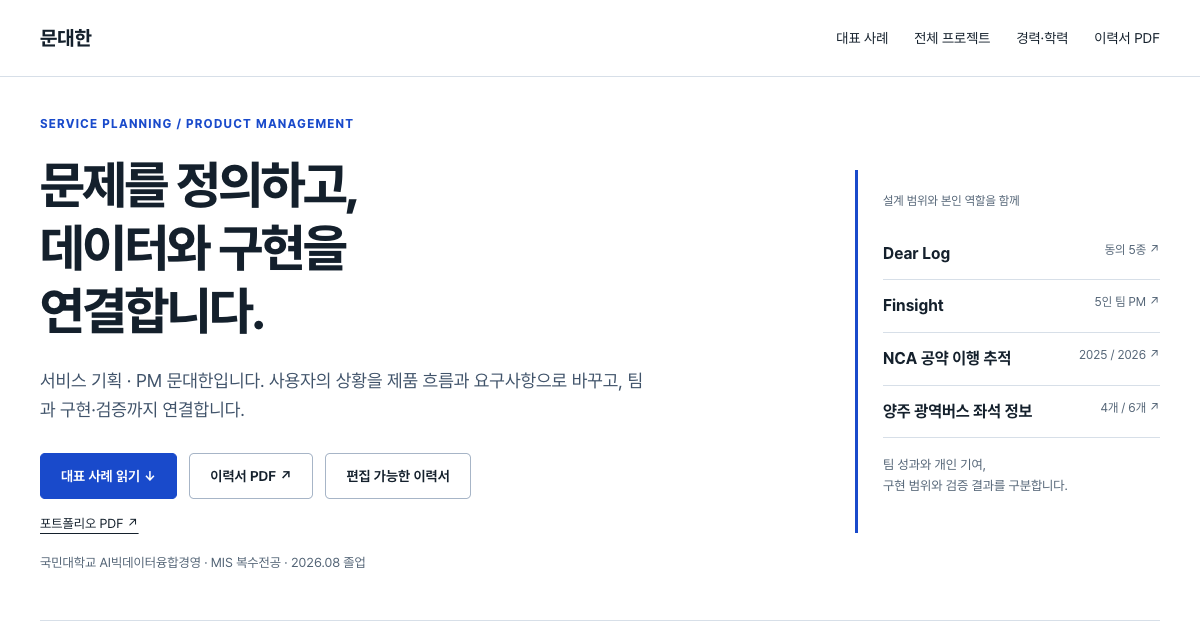
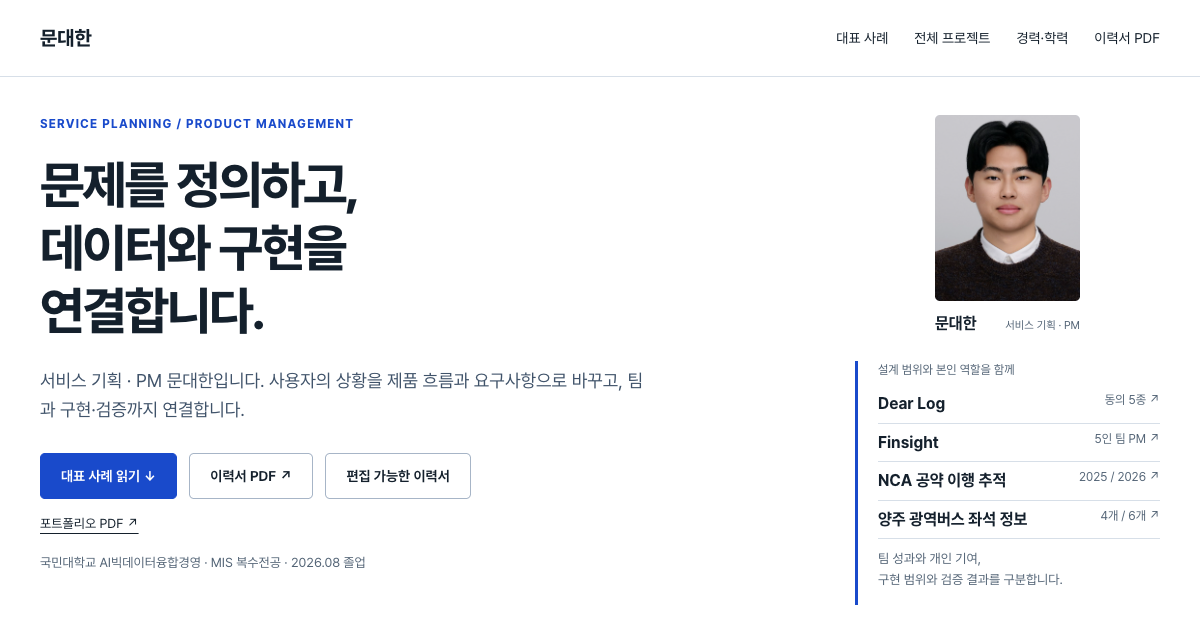
Add original profile photo and responsive placement

diff --git a/index.html b/index.html
@@ -1,1 +1,1 @@
-<!doctype html><html lang="ko"><head><meta charset="utf-8"><meta name="viewport" content="width=device-width,initial-scale=1"><title>서비스 기획 PM 포트폴리오 · 문대한</title><meta name="description" content="서비스 기획 · PM 문대한입니다. 사용자의 상황을 제품 흐름과 요구사항으로 바꾸고, 팀과 구현·검증까지 연결합니다."><meta name="robots" content="index,follow"><meta name="theme-color" content="#ffffff"><link rel="stylesheet" href="style.css"><link rel="preload" href="assets/PretendardVariable.woff2" as="font" type="font/woff2" crossorigin><link rel="icon" href="assets/favicon.svg"><link rel="canonical" href="https://moondh99.github.io/"><meta property="og:type" content="website"><meta property="og:locale" content="ko_KR"><meta property="og:title" content="문대한 | 서비스 기획 · PM"><meta property="og:description" content="문제 정의에서 팀 실행과 검증까지 연결하는 기획 경험"><meta property="og:url" content="https://moondh99.github.io/"><meta property="og:image" content="https://moondh99.github.io/assets/og-pm.png"></head><body><a class="skip" href="#main">본문으로 건너뛰기</a><header class="bar"><div class="wrap nav"><a class="brand" href="#main">문대한</a><nav aria-label="주요 탐색" class="navlinks"><a class="" href="#selected">대표 사례</a><a class="" href="#all">전체 프로젝트</a><a class="historynav" href="#background">경력·학력</a><a class="" href="resume.pdf">이력서 PDF</a></nav></div></header><main id="main" tabindex="-1" class="wrap"><section class="hero" aria-labelledby="hero-title"><div class="hero-main"><p class="eyebrow">SERVICE PLANNING / PRODUCT MANAGEMENT</p><h1 id="hero-title">문제를 정의하고,<br> 데이터와 구현을<br class="widebreak"> 연결합니다.</h1><p class="intro">서비스 기획 · PM 문대한입니다. 사용자의 상황을 제품 흐름과 요구사항으로 바꾸고, 팀과 구현·검증까지 연결합니다.</p><div class="actions"><a class="button primary" href="#selected">대표 사례 읽기 ↓</a><a class="button" href="resume.pdf">이력서 PDF ↗</a><a class="button" href="resume.docx">편집 가능한 이력서</a></div><p class="portfolio-download"><a href="portfolio.pdf">포트폴리오 PDF ↗</a></p><p class="small" style="margin-top:18px">국민대학교 AI빅데이터융합경영 · MIS 복수전공 · 2026.08 졸업</p></div><aside class="hero-proof" aria-label="대표 사례의 기획 근거"><p class="proof-label">설계 범위와 본인 역할을 함께</p><a href="#case-dearlog"><b>Dear Log</b><span>동의 5종 ↗</span></a><a href="#case-finsight"><b>Finsight</b><span>5인 팀 PM ↗</span></a><a href="#case-nca"><b>NCA 공약 이행 추적</b><span>2025 / 2026 ↗</span></a><a href="#case-yangju"><b>양주 광역버스 좌석 정보</b><span>4개 / 6개 ↗</span></a><p class="small">팀 성과와 개인 기여,<br>구현 범위와 검증 결과를 구분합니다.</p></aside></section><section id="selected" class="section" aria-labelledby="selected-title"><div class="sectionhead"><div><p class="eyebrow">SELECTED WORK</p><h2 id="selected-title">대표 사례와 기획의 근거</h2></div><p>대표 사례를 먼저 읽고, 각 결정에 연결된 요구사항·설계·검증 범위를 확인할 수 있습니다.</p></div><div class="cases"><article class="case" id="case-dearlog" aria-labelledby="title-dearlog"><div class="topline"><b>Dear Log</b><span>2026</span></div><p class="tag">사용자 여정과 동의 설계</p><h3 id="title-dearlog">가족의 기억을 인터뷰에서 책까지 연결</h3><p class="role">서비스 기획 · 팀 프로젝트</p><dl><dt>문제</dt><dd>기억을 남기고 싶은 보호자와 답변하는 시니어에게 같은 가입·기록 부담을 주는 흐름을 줄이고자 했습니다.</dd><dt>결정</dt><dd>보호자는 준비·검수, 시니어는 답변에 집중하도록 역할을 나누고, 인터뷰부터 출판까지 흐름을 연결했습니다.</dd><dt>검증</dt><dd>PRD와 공개 설계 시안에서 역할 분리·동의·검수·PDF 흐름을 확인했습니다. 공개 소개 화면과 health는 2026.10.08 정상 응답을 확인했습니다. 캡스톤 대상은 기존 이력서 기재 기준입니다.</dd></dl><div class="number"><b>5종</b><span>목적별 동의 설계 · 공개 PRD 기준</span></div><p class="limit">SMS 업체 연결·App Store 배포·실사용 효과는 미확인입니다. 유산 금고는 데모 범위입니다.</p><div class="links"><a class="" href="briefs/dearlog.html">사례 상세 읽기 →</a><span class="pending" aria-disabled="true">자료 링크 준비 중</span></div><p class="flow-label">기획 흐름 · 설명용 재구성</p><ol class="flow" aria-label="Dear Log 설계 흐름"><li>보호자 준비</li><li>시니어 인터뷰</li><li>가족 검수</li><li>PDF 출판</li></ol></article><article class="case" id="case-finsight" aria-labelledby="title-finsight"><div class="topline"><b>Finsight</b><span>2025.04–10</span></div><p class="tag">팀 실행과 데이터 확보</p><h3 id="title-finsight">흩어진 증권사 리포트를 분석 서비스로 연결</h3><p class="role">5인 팀 팀장 · PM</p><dl><dt>문제</dt><dd>증권사마다 다른 문서와 컨센서스 형식을 서비스에서 사용할 수 있도록 모아야 했습니다.</dd><dt>결정</dt><dd>기획·일정·업무 배분·멘토 소통을 맡고, 컨센서스 수집을 개발했습니다. PDF 본문·표·이미지의 파싱 대안을 검토했습니다.</dd><dt>검증</dt><dd>로컬 수집 코드와 화면 목업을 확인했습니다. 팀 배포에 기여했으나 사용자 검증 결과는 아직 없습니다.</dd></dl><div class="number"><b>5인</b><span>팀 규모 · 본인 역할은 팀장과 PM</span></div><p class="limit">팀 결과와 본인 개발 범위를 구분합니다. 실제 투자 효과·활성 사용자 수는 주장하지 않습니다.</p><div class="links"><a class="" href="briefs/finsight.html">사례 상세 읽기 →</a><span class="pending" aria-disabled="true">자료 링크 준비 중</span></div><p class="flow-label">기획 흐름 · 설명용 재구성</p><ol class="flow" aria-label="Finsight 설계 흐름"><li>요구사항 정리</li><li>업무와 일정 배분</li><li>수집·파싱 검토</li><li>팀 결과 연결</li></ol></article><article class="case" id="case-nca" aria-labelledby="title-nca"><div class="topline"><b>NCA 공약 이행 추적</b><span>2025 / 2026 후속</span></div><p class="tag">AI 판단과 근거 관리</p><h3 id="title-nca">AI 판정의 근거를 사용자가 확인할 수 있도록</h3><p class="role">2025 수집·파싱 직접 수행 · 2026 AI 작업 검토·승인</p><dl><dt>문제</dt><dd>공약과 뉴스가 관련되어 있다는 판단만으로 공약의 이행 완료를 확정할 수 없습니다.</dd><dt>결정</dt><dd>원문 인용·출처·날짜를 대조하고, 근거가 부족하면 판정을 유보하는 기준을 후속 작업에서 구체화했습니다.</dd><dt>검증</dt><dd>2025년 직접 수집·PDF 파싱과 2026년 AI 보조 후속 검토를 구분해 정리했습니다. AI 간 합의도 사람 검수 정답으로 취급하지 않습니다.</dd></dl><div class="number"><b>2025 → 2026</b><span>직접 수행과 AI 보조 후속의 역할 구분</span></div><p class="limit">AI 간 합의를 사람 검수 정답으로 취급하지 않습니다. 평가 개선 수치는 원문 대조 후 보완합니다.</p><div class="links"><a class="" href="briefs/nca.html">사례 상세 읽기 →</a><span class="pending" aria-disabled="true">자료 링크 준비 중</span></div><p class="flow-label">기획 흐름 · 설명용 재구성</p><ol class="flow" aria-label="NCA 공약 이행 추적 설계 흐름"><li>공약·뉴스 원문</li><li>인용과 날짜 대조</li><li>불충분하면 유보</li><li>근거와 판정 분리</li></ol></article><article class="case" id="case-yangju" aria-labelledby="title-yangju"><div class="topline"><b>양주 광역버스 좌석 정보</b><span>2026 진행 중</span></div><p class="tag">정보 정책과 검증 기준</p><h3 id="title-yangju">좌석 0과 정보 없음을 구분</h3><p class="role">데이터·API 계약 구체화 · AI 협업 구현 검토</p><dl><dt>문제</dt><dd>수집 실패·빈 차량 슬롯·좌석 0을 같은 값으로 보여 주면 통근자가 상황을 잘못 판단할 수 있습니다.</dd><dt>결정</dt><dd>결측·관측 시각·최신성을 응답 계약에 명시하고, 예측 근거가 없는 확률은 표시하지 않도록 범위를 정했습니다.</dd><dt>검증</dt><dd>4개 정류장과 6개 노선·방향 매핑을 원천 응답과 로컬 HTTP 결과로 대조한 기록, 읽기 전용 API 구현을 확인했습니다.</dd></dl><div class="number"><b>4개 / 6개</b><span>정류장 / 노선·방향 매핑의 로컬 검증 범위</span></div><p class="limit">팀 통합·예측 정확도·공개 배포는 미완료입니다. 테스트 수를 사용자 성과로 해석하지 않습니다.</p><div class="links"><a class="" href="briefs/yangju.html">사례 상세 읽기 →</a><span class="pending" aria-disabled="true">자료 링크 준비 중</span></div><p class="flow-label">기획 흐름 · 설명용 재구성</p><ol class="flow" aria-label="양주 광역버스 좌석 정보 설계 흐름"><li>원천 관측</li><li>좌석·결측 구분</li><li>시각·최신성 표시</li><li>근거 없는 예측 유보</li></ol></article></div><figure class="artifact"><figcaption><p class="eyebrow">ACTUAL DESIGN ARTIFACT</p><h3>Dear Log의<br>보호자와 시니어 여정</h3><p>공개 저장소의 실제 설계 시안입니다. 현재 PRD와 다른 초기 대안도 포함합니다.</p><span class="pending" aria-disabled="true">자료 링크 준비 중</span></figcaption><div><img src="assets/dearlog-journey-preview.svg" width="2600" height="800" loading="lazy" alt="Dear Log 실제 설계 시안. 보호자와 시니어의 단계별 행동, 감정, 시스템 지원을 함께 보여 주는 사용자 여정"></div></figure></section><section id="all" class="section" aria-labelledby="all-title"><div class="sectionhead"><div><p class="eyebrow">PROJECT INDEX</p><h2 id="all-title">전체 경험과 기획 후보</h2></div><p>기존 경험부터 진행 중 기획과 준비 후보까지 검토 목록에 모았습니다. 항목 수는 완료 실적이 아닙니다.</p></div><ul class="project-list"><li class="project-row"><span class="year">2026</span><div><h3>Dear Log</h3><p>보호자와 시니어 역할 분리, 동의·인터뷰·검수·출판 흐름</p></div><div class="rowright"><span class="status">구현·설계</span><br><a class="" href="briefs/dearlog.html">기획 요약 읽기 →</a></div></li><li class="project-row"><span class="year">2025</span><div><h3>Finsight</h3><p>5인 팀 PM, 컨센서스 수집, PDF 파싱 대안 검토</p></div><div class="rowright"><span class="status">팀 프로젝트</span><br><a class="" href="briefs/finsight.html">기획 요약 읽기 →</a></div></li><li class="project-row"><span class="year">2025–2026</span><div><h3>NCA 공약 이행 추적</h3><p>2025 직접 수집·파싱과 2026 AI 보조 검토·승인 구분</p></div><div class="rowright"><span class="status">후속 진행</span><br><a class="" href="briefs/nca.html">기획 요약 읽기 →</a></div></li><li class="project-row"><span class="year">2026</span><div><h3>양주 광역버스 좌석 정보</h3><p>관측·결측·최신성 정책과 읽기 전용 API 계약</p></div><div class="rowright"><span class="status">로컬 구현</span><br><a class="" href="briefs/yangju.html">기획 요약 읽기 →</a></div></li><li class="project-row"><span class="year">2026</span><div><h3>운전 졸업식 BMW YIDP</h3><p>2인 팀 팀장. 이동 계획표·졸업식 운영·예약 및 동행의 3종 흐름 설계. 인터뷰 미실시</p></div><div class="rowright"><span class="status">기획안</span><br><a class="" href="briefs/bmw.html">기획 요약 읽기 →</a></div></li><li class="project-row"><span class="year">2026</span><div><h3>첫걸음 동네산책</h3><p>3인 팀 대표. 예시 데이터 기반 4개 핵심 화면과 이주민 주도 환영길 기획. 현장 실증 전</p></div><div class="rowright"><span class="status">신청·MVP</span><br><a class="" href="briefs/walk.html">기획 요약 읽기 →</a></div></li></ul><details id="more-projects"><summary>추가 경험·기획 후보 20항목 보기</summary><ul class="project-list"><li class="project-row"><span class="year">2026</span><div><h3>Tomorrow SOL</h3><p>퇴사·독립·자동차 구매의 3가지 선택과 7개 화면 설계. 계산 엔진과 AI 설명의 역할 분리. 구현·제출 미확인</p></div><div class="rowright"><span class="status">서비스 설계</span><br><a class="" href="briefs/tomorrow.html">기획 요약 읽기 →</a></div></li><li class="project-row"><span class="year">2025</span><div><h3>온통청년 문화·여가 접근성</h3><p>3인 팀 팀장. 분석 범위·일정 우선순위를 조정해 투자 제언으로 정리. 정제는 팀원 수행. 정책 채택 미확인</p></div><div class="rowright"><span class="status">팀 분석</span><br><a class="" href="briefs/ontong.html">기획 요약 읽기 →</a></div></li><li class="project-row"><span class="year">2024</span><div><h3>따릉이 수요 분석</h3><p>실시간 수요 분석을 위한 데이터 파이프라인과 대시보드 설계. 처리량·시간·정확도 수치는 보류</p></div><div class="rowright"><span class="status">설계·구현</span><br><a class="" href="briefs/bicycle.html">기획 요약 읽기 →</a></div></li><li class="project-row"><span class="year">2024</span><div><h3>K리그 경기 결과 예측 한이음</h3><p>예측 모델과 서비스 구성 경험. 경기 수·정확도 충돌값은 제외</p></div><div class="rowright"><span class="status">팀 프로젝트</span><br><a class="" href="briefs/kleague24.html">기획 요약 읽기 →</a></div></li><li class="project-row"><span class="year">2025.12</span><div><h3>K리그 서울시립대 AI 서비스 기획</h3><p>선수 부하·부상 위험·교체 판단 지원 기획. 2024 승률예측과 별도 경험. 효과 수치는 목표</p></div><div class="rowright"><span class="status">별도 프로젝트</span><br><a class="" href="briefs/kleague25.html">기획 요약 읽기 →</a></div></li><li class="project-row"><span class="year">2024</span><div><h3>LG Aimers 4기 MQL</h3><p>B2B 영업기회 예측과 리드 우선순위화. 평가값은 원본 확인 전 제외</p></div><div class="rowright"><span class="status">분석 프로젝트</span><br><a class="" href="briefs/mql.html">기획 요약 읽기 →</a></div></li><li class="project-row"><span class="year">2024</span><div><h3>투자 교육 훈련 플랫폼</h3><p>초보 투자자의 이해도·리스크 성향을 고려한 교육과 모의투자 흐름</p></div><div class="rowright"><span class="status">서비스 기획</span><br><a class="" href="briefs/investment.html">기획 요약 읽기 →</a></div></li><li class="project-row"><span class="year">2025</span><div><h3>수강신청 시스템 개편</h3><p>수강 계획 로드맵과 마일리지 우선권을 요구사항·DFD·ERD·HTML 프로토타입으로 구체화</p></div><div class="rowright"><span class="status">설계 프로젝트</span><br><a class="" href="briefs/registration.html">기획 요약 읽기 →</a></div></li><li class="project-row"><span class="year">2026</span><div><h3>금융문맹 탈출기 RPG</h3><p>금융 AI 리터러시 카드뉴스. KBI 인기상은 기존 이력서 기재</p></div><div class="rowright"><span class="status">콘텐츠 제작</span><br><a class="" href="briefs/kbi.html">기획 요약 읽기 →</a></div></li><li class="project-row"><span class="year">2024</span><div><h3>주요 5품목 무역량 예측</h3><p>국민대 데이터 분석 프로젝트. 모델 평가와 본인 역할 원본 보완</p></div><div class="rowright"><span class="status">분석 프로젝트</span><br><a class="" href="briefs/trade24.html">기획 요약 읽기 →</a></div></li><li class="project-row"><span class="year">2025</span><div><h3>무역 공행성·후행 품목 예측</h3><p>2024 무역량 예측과 별도 경험. 원본 산출물·평가 기준 보완</p></div><div class="rowright"><span class="status">분석 프로젝트</span><br><a class="" href="briefs/trade25.html">기획 요약 읽기 →</a></div></li><li class="project-row"><span class="year">2026.04</span><div><h3>CampusGuard KIT 바이브코딩</h3><p>부트캠프 출결과 상담·행정 문서 작성 흐름을 묶은 프로토타입. Kiro 생성 코드와 본인·AI 기여 구분 필요</p></div><div class="rowright"><span class="status">프로토타입</span><br><a class="" href="briefs/campusguard.html">기획 요약 읽기 →</a></div></li><li class="project-row"><span class="year">2026.05</span><div><h3>국민대 특화 행정 서비스 AI</h3><p>공식 학사 자료 근거 확인에서 문의문·체크리스트 작성까지 연결하는 프로토타입. 운영 효과 미검증</p></div><div class="rowright"><span class="status">구현·설계</span><br><a class="" href="briefs/kmu.html">기획 요약 읽기 →</a></div></li><li class="project-row"><span class="year">2026</span><div><h3>복구잇다</h3><p>침수 피해 사업장 복구 요청의 접수·배정·완료 흐름. 현장 협력·실증 미확정</p></div><div class="rowright"><span class="status">기획 초안</span><br><a class="" href="briefs/recovery.html">기획 요약 읽기 →</a></div></li><li class="project-row"><span class="year">2026</span><div><h3>내 단골 주문 확인 AI</h3><p>키오스크 주문 확인의 접근성·안전 범위와 PRD 작성. 실제 운영 효과 미검증</p></div><div class="rowright"><span class="status">기획 초안</span><br><a class="" href="briefs/kiosk.html">기획 요약 읽기 →</a></div></li><li class="project-row"><span class="year">2026</span><div><h3>행사 다음 약속 고용24</h3><p>채용행사 이후 후속 약속을 이어 주는 흐름. 현장 도입·실증 전</p></div><div class="rowright"><span class="status">PRD·화면 설계</span><br><a class="" href="briefs/employment.html">기획 요약 읽기 →</a></div></li><li class="project-row"><span class="year">2026</span><div><h3>하나 Junior Green</h3><p>용돈 기록과 ESG 학습·가상투자 연결. 은행 연계와 운영 실적은 미확인</p></div><div class="rowright"><span class="status">기획·목업</span><br><a class="" href="briefs/junior.html">기획 요약 읽기 →</a></div></li><li class="project-row"><span class="year">2026</span><div><h3>Startup AI Navi</h3><p>창업 지원 탐색 서비스 후보. 최종 제출 상태와 역할 보완</p></div><div class="rowright"><span class="status">기획·프로토타입</span><br><a class="" href="briefs/startup.html">기획 요약 읽기 →</a></div></li><li class="project-row"><span class="year">2026</span><div><h3>모두의 AI 실험실 제안</h3><p>놀이터·조례 피드백·공공사업 추적 후보를 검토. 실제 운영 성과 아님</p></div><div class="rowright"><span class="status">제안 초안</span><br><a class="" href="briefs/publiclabs.html">기획 요약 읽기 →</a></div></li><li class="project-row"><span class="year">2026.10</span><div><h3>KRAFTON AI 해커톤</h3><p>자율운항·시뮬레이터·합성 데이터·월드 모델 과제의 평가 조건과 실험 계획 검토. 구현·제출 전</p></div><div class="rowright"><span class="status">준비 중</span><br><a class="" href="briefs/krafton.html">기획 요약 읽기 →</a></div></li></ul></details><p class="list-note">‘근거 보완’·‘보류’ 항목은 검토 목록입니다. 원본과 역할을 확인한 뒤 제출용 경험으로 확정합니다.</p></section><section id="background" class="section" aria-labelledby="background-title"><p class="eyebrow">BACKGROUND</p><h2 id="background-title">경험과 기반</h2><div class="history"><div><h3>경력</h3><div class="xp"><b>셀렉트스타 · Data Assistant</b><span>2025.09–12 · 프로젝트3팀</span><p>AI 학습 데이터 수집·가공 진행 지원. 품질 개선 수치는 원본 검수 기준 확인 후 추가합니다.</p></div><div class="xp"><b>한국금융연수원 · 출판미디어사업부</b><span>2024.01–12 · 사무보조</span><p>도서 판매 관리와 사무 지원. 판매·송장 데이터를 함께 살펴 개선 아이디어를 제안했습니다.</p></div><p class="small" style="margin-top:16px">메트릭스튜디오 경력은 증명서의 직함·기간과 업무 산출물 대조 후 보완합니다.</p></div><div><h3>학력과 역량</h3><p>국민대학교 · AI빅데이터융합경영학<br>경영정보학 복수전공 · 2019.03–2026.08</p><ul><li>기획: 문제 정의, PRD, 사용자 여정, 화면·정책 설계</li><li>실행: 일정·업무 배분, 멘토 소통, 데이터/API 요구사항</li><li>검증: 원문 대조, 데이터의 결측·최신성, AI 판단의 한계</li><li>도구: Python, SQL, Figma, Word·Excel·PowerPoint</li></ul><p class="small">캡스톤 대상 · 연구랩업 대상 · 갭이어 우수 참여자 · KBI 인기상은 기존 이력서 기재 기준입니다.</p></div></div></section><section id="contact" class="section" aria-labelledby="contact-title"><div class="contact"><p class="eyebrow">LET’S TALK</p><h2 id="contact-title">어떤 문제를 함께 풀고 싶으신가요?</h2><p>문제 정의부터 팀 실행과 검증까지 연결하는 서비스 기획자로 일하고 싶습니다.</p><div class="actions"><a class="button primary" href="mailto:mdh0204@naver.com">이메일로 연락하기</a><span class="pending" aria-disabled="true">자료 링크 준비 중</span><a class="button" href="resume.pdf">이력서 PDF ↗</a><button class="button" type="button" id="print">포트폴리오 인쇄</button></div><p class="print-only">mdh0204@naver.com · 포트폴리오 자료 링크 준비 중</p></div></section></main><script>const opened=[];addEventListener('beforeprint',()=>{document.querySelectorAll('details').forEach(d=>{opened.push([d,d.open]);d.open=true})});addEventListener('afterprint',()=>{opened.splice(0).forEach(([d,s])=>d.open=s)});document.getElementById('print').addEventListener('click',()=>print());if(location.hash==='#more-projects')document.getElementById('more-projects').open=true;document.querySelector('.skip').addEventListener('click',()=>document.getElementById('main').focus());</script><footer class="wrap footer">문대한 · 서비스 기획 / PM · 내용 확인일 2026-10-08</footer></body></html>
+<!doctype html><html lang="ko"><head><meta charset="utf-8"><meta name="viewport" content="width=device-width,initial-scale=1"><title>서비스 기획 PM 포트폴리오 · 문대한</title><meta name="description" content="서비스 기획 · PM 문대한입니다. 사용자의 상황을 제품 흐름과 요구사항으로 바꾸고, 팀과 구현·검증까지 연결합니다."><meta name="robots" content="index,follow"><meta name="theme-color" content="#ffffff"><link rel="stylesheet" href="style.css"><link rel="preload" href="assets/PretendardVariable.woff2" as="font" type="font/woff2" crossorigin><link rel="icon" href="assets/favicon.svg"><link rel="canonical" href="https://moondh99.github.io/"><meta property="og:type" content="website"><meta property="og:locale" content="ko_KR"><meta property="og:title" content="문대한 | 서비스 기획 · PM"><meta property="og:description" content="문제 정의에서 팀 실행과 검증까지 연결하는 기획 경험"><meta property="og:url" content="https://moondh99.github.io/"><meta property="og:image" content="https://moondh99.github.io/assets/og-pm.png"></head><body><a class="skip" href="#main">본문으로 건너뛰기</a><header class="bar"><div class="wrap nav"><a class="brand" href="#main">문대한</a><nav aria-label="주요 탐색" class="navlinks"><a class="" href="#selected">대표 사례</a><a class="" href="#all">전체 프로젝트</a><a class="historynav" href="#background">경력·학력</a><a class="" href="resume.pdf">이력서 PDF</a></nav></div></header><main id="main" tabindex="-1" class="wrap"><section class="hero" aria-labelledby="hero-title"><div class="hero-main"><p class="eyebrow">SERVICE PLANNING / PRODUCT MANAGEMENT</p><h1 id="hero-title">문제를 정의하고,<br> 데이터와 구현을<br class="widebreak"> 연결합니다.</h1><p class="intro">서비스 기획 · PM 문대한입니다. 사용자의 상황을 제품 흐름과 요구사항으로 바꾸고, 팀과 구현·검증까지 연결합니다.</p><div class="actions"><a class="button primary" href="#selected">대표 사례 읽기 ↓</a><a class="button" href="resume.pdf">이력서 PDF ↗</a><a class="button" href="resume.docx">편집 가능한 이력서</a></div><p class="portfolio-download"><a href="portfolio.pdf">포트폴리오 PDF ↗</a></p><p class="small" style="margin-top:18px">국민대학교 AI빅데이터융합경영 · MIS 복수전공 · 2026.08 졸업</p></div><figure class="portrait"><img src="assets/portrait.jpg" width="600" height="771" alt="문대한의 프로필 사진" fetchpriority="high"><figcaption><b>문대한</b><span>서비스 기획 · PM</span></figcaption></figure><aside class="hero-proof" aria-label="대표 사례의 기획 근거"><p class="proof-label">설계 범위와 본인 역할을 함께</p><a href="#case-dearlog"><b>Dear Log</b><span>동의 5종 ↗</span></a><a href="#case-finsight"><b>Finsight</b><span>5인 팀 PM ↗</span></a><a href="#case-nca"><b>NCA 공약 이행 추적</b><span>2025 / 2026 ↗</span></a><a href="#case-yangju"><b>양주 광역버스 좌석 정보</b><span>4개 / 6개 ↗</span></a><p class="small">팀 성과와 개인 기여,<br>구현 범위와 검증 결과를 구분합니다.</p></aside></section><section id="selected" class="section" aria-labelledby="selected-title"><div class="sectionhead"><div><p class="eyebrow">SELECTED WORK</p><h2 id="selected-title">대표 사례와 기획의 근거</h2></div><p>대표 사례를 먼저 읽고, 각 결정에 연결된 요구사항·설계·검증 범위를 확인할 수 있습니다.</p></div><div class="cases"><article class="case" id="case-dearlog" aria-labelledby="title-dearlog"><div class="topline"><b>Dear Log</b><span>2026</span></div><p class="tag">사용자 여정과 동의 설계</p><h3 id="title-dearlog">가족의 기억을 인터뷰에서 책까지 연결</h3><p class="role">서비스 기획 · 팀 프로젝트</p><dl><dt>문제</dt><dd>기억을 남기고 싶은 보호자와 답변하는 시니어에게 같은 가입·기록 부담을 주는 흐름을 줄이고자 했습니다.</dd><dt>결정</dt><dd>보호자는 준비·검수, 시니어는 답변에 집중하도록 역할을 나누고, 인터뷰부터 출판까지 흐름을 연결했습니다.</dd><dt>검증</dt><dd>PRD와 공개 설계 시안에서 역할 분리·동의·검수·PDF 흐름을 확인했습니다. 공개 소개 화면과 health는 2026.10.08 정상 응답을 확인했습니다. 캡스톤 대상은 기존 이력서 기재 기준입니다.</dd></dl><div class="number"><b>5종</b><span>목적별 동의 설계 · 공개 PRD 기준</span></div><p class="limit">SMS 업체 연결·App Store 배포·실사용 효과는 미확인입니다. 유산 금고는 데모 범위입니다.</p><div class="links"><a class="" href="briefs/dearlog.html">사례 상세 읽기 →</a><span class="pending" aria-disabled="true">자료 링크 준비 중</span></div><p class="flow-label">기획 흐름 · 설명용 재구성</p><ol class="flow" aria-label="Dear Log 설계 흐름"><li>보호자 준비</li><li>시니어 인터뷰</li><li>가족 검수</li><li>PDF 출판</li></ol></article><article class="case" id="case-finsight" aria-labelledby="title-finsight"><div class="topline"><b>Finsight</b><span>2025.04–10</span></div><p class="tag">팀 실행과 데이터 확보</p><h3 id="title-finsight">흩어진 증권사 리포트를 분석 서비스로 연결</h3><p class="role">5인 팀 팀장 · PM</p><dl><dt>문제</dt><dd>증권사마다 다른 문서와 컨센서스 형식을 서비스에서 사용할 수 있도록 모아야 했습니다.</dd><dt>결정</dt><dd>기획·일정·업무 배분·멘토 소통을 맡고, 컨센서스 수집을 개발했습니다. PDF 본문·표·이미지의 파싱 대안을 검토했습니다.</dd><dt>검증</dt><dd>로컬 수집 코드와 화면 목업을 확인했습니다. 팀 배포에 기여했으나 사용자 검증 결과는 아직 없습니다.</dd></dl><div class="number"><b>5인</b><span>팀 규모 · 본인 역할은 팀장과 PM</span></div><p class="limit">팀 결과와 본인 개발 범위를 구분합니다. 실제 투자 효과·활성 사용자 수는 주장하지 않습니다.</p><div class="links"><a class="" href="briefs/finsight.html">사례 상세 읽기 →</a><span class="pending" aria-disabled="true">자료 링크 준비 중</span></div><p class="flow-label">기획 흐름 · 설명용 재구성</p><ol class="flow" aria-label="Finsight 설계 흐름"><li>요구사항 정리</li><li>업무와 일정 배분</li><li>수집·파싱 검토</li><li>팀 결과 연결</li></ol></article><article class="case" id="case-nca" aria-labelledby="title-nca"><div class="topline"><b>NCA 공약 이행 추적</b><span>2025 / 2026 후속</span></div><p class="tag">AI 판단과 근거 관리</p><h3 id="title-nca">AI 판정의 근거를 사용자가 확인할 수 있도록</h3><p class="role">2025 수집·파싱 직접 수행 · 2026 AI 작업 검토·승인</p><dl><dt>문제</dt><dd>공약과 뉴스가 관련되어 있다는 판단만으로 공약의 이행 완료를 확정할 수 없습니다.</dd><dt>결정</dt><dd>원문 인용·출처·날짜를 대조하고, 근거가 부족하면 판정을 유보하는 기준을 후속 작업에서 구체화했습니다.</dd><dt>검증</dt><dd>2025년 직접 수집·PDF 파싱과 2026년 AI 보조 후속 검토를 구분해 정리했습니다. AI 간 합의도 사람 검수 정답으로 취급하지 않습니다.</dd></dl><div class="number"><b>2025 → 2026</b><span>직접 수행과 AI 보조 후속의 역할 구분</span></div><p class="limit">AI 간 합의를 사람 검수 정답으로 취급하지 않습니다. 평가 개선 수치는 원문 대조 후 보완합니다.</p><div class="links"><a class="" href="briefs/nca.html">사례 상세 읽기 →</a><span class="pending" aria-disabled="true">자료 링크 준비 중</span></div><p class="flow-label">기획 흐름 · 설명용 재구성</p><ol class="flow" aria-label="NCA 공약 이행 추적 설계 흐름"><li>공약·뉴스 원문</li><li>인용과 날짜 대조</li><li>불충분하면 유보</li><li>근거와 판정 분리</li></ol></article><article class="case" id="case-yangju" aria-labelledby="title-yangju"><div class="topline"><b>양주 광역버스 좌석 정보</b><span>2026 진행 중</span></div><p class="tag">정보 정책과 검증 기준</p><h3 id="title-yangju">좌석 0과 정보 없음을 구분</h3><p class="role">데이터·API 계약 구체화 · AI 협업 구현 검토</p><dl><dt>문제</dt><dd>수집 실패·빈 차량 슬롯·좌석 0을 같은 값으로 보여 주면 통근자가 상황을 잘못 판단할 수 있습니다.</dd><dt>결정</dt><dd>결측·관측 시각·최신성을 응답 계약에 명시하고, 예측 근거가 없는 확률은 표시하지 않도록 범위를 정했습니다.</dd><dt>검증</dt><dd>4개 정류장과 6개 노선·방향 매핑을 원천 응답과 로컬 HTTP 결과로 대조한 기록, 읽기 전용 API 구현을 확인했습니다.</dd></dl><div class="number"><b>4개 / 6개</b><span>정류장 / 노선·방향 매핑의 로컬 검증 범위</span></div><p class="limit">팀 통합·예측 정확도·공개 배포는 미완료입니다. 테스트 수를 사용자 성과로 해석하지 않습니다.</p><div class="links"><a class="" href="briefs/yangju.html">사례 상세 읽기 →</a><span class="pending" aria-disabled="true">자료 링크 준비 중</span></div><p class="flow-label">기획 흐름 · 설명용 재구성</p><ol class="flow" aria-label="양주 광역버스 좌석 정보 설계 흐름"><li>원천 관측</li><li>좌석·결측 구분</li><li>시각·최신성 표시</li><li>근거 없는 예측 유보</li></ol></article></div><figure class="artifact"><figcaption><p class="eyebrow">ACTUAL DESIGN ARTIFACT</p><h3>Dear Log의<br>보호자와 시니어 여정</h3><p>공개 저장소의 실제 설계 시안입니다. 현재 PRD와 다른 초기 대안도 포함합니다.</p><span class="pending" aria-disabled="true">자료 링크 준비 중</span></figcaption><div><img src="assets/dearlog-journey-preview.svg" width="2600" height="800" loading="lazy" alt="Dear Log 실제 설계 시안. 보호자와 시니어의 단계별 행동, 감정, 시스템 지원을 함께 보여 주는 사용자 여정"></div></figure></section><section id="all" class="section" aria-labelledby="all-title"><div class="sectionhead"><div><p class="eyebrow">PROJECT INDEX</p><h2 id="all-title">전체 경험과 기획 후보</h2></div><p>기존 경험부터 진행 중 기획과 준비 후보까지 검토 목록에 모았습니다. 항목 수는 완료 실적이 아닙니다.</p></div><ul class="project-list"><li class="project-row"><span class="year">2026</span><div><h3>Dear Log</h3><p>보호자와 시니어 역할 분리, 동의·인터뷰·검수·출판 흐름</p></div><div class="rowright"><span class="status">구현·설계</span><br><a class="" href="briefs/dearlog.html">기획 요약 읽기 →</a></div></li><li class="project-row"><span class="year">2025</span><div><h3>Finsight</h3><p>5인 팀 PM, 컨센서스 수집, PDF 파싱 대안 검토</p></div><div class="rowright"><span class="status">팀 프로젝트</span><br><a class="" href="briefs/finsight.html">기획 요약 읽기 →</a></div></li><li class="project-row"><span class="year">2025–2026</span><div><h3>NCA 공약 이행 추적</h3><p>2025 직접 수집·파싱과 2026 AI 보조 검토·승인 구분</p></div><div class="rowright"><span class="status">후속 진행</span><br><a class="" href="briefs/nca.html">기획 요약 읽기 →</a></div></li><li class="project-row"><span class="year">2026</span><div><h3>양주 광역버스 좌석 정보</h3><p>관측·결측·최신성 정책과 읽기 전용 API 계약</p></div><div class="rowright"><span class="status">로컬 구현</span><br><a class="" href="briefs/yangju.html">기획 요약 읽기 →</a></div></li><li class="project-row"><span class="year">2026</span><div><h3>운전 졸업식 BMW YIDP</h3><p>2인 팀 팀장. 이동 계획표·졸업식 운영·예약 및 동행의 3종 흐름 설계. 인터뷰 미실시</p></div><div class="rowright"><span class="status">기획안</span><br><a class="" href="briefs/bmw.html">기획 요약 읽기 →</a></div></li><li class="project-row"><span class="year">2026</span><div><h3>첫걸음 동네산책</h3><p>3인 팀 대표. 예시 데이터 기반 4개 핵심 화면과 이주민 주도 환영길 기획. 현장 실증 전</p></div><div class="rowright"><span class="status">신청·MVP</span><br><a class="" href="briefs/walk.html">기획 요약 읽기 →</a></div></li></ul><details id="more-projects"><summary>추가 경험·기획 후보 20항목 보기</summary><ul class="project-list"><li class="project-row"><span class="year">2026</span><div><h3>Tomorrow SOL</h3><p>퇴사·독립·자동차 구매의 3가지 선택과 7개 화면 설계. 계산 엔진과 AI 설명의 역할 분리. 구현·제출 미확인</p></div><div class="rowright"><span class="status">서비스 설계</span><br><a class="" href="briefs/tomorrow.html">기획 요약 읽기 →</a></div></li><li class="project-row"><span class="year">2025</span><div><h3>온통청년 문화·여가 접근성</h3><p>3인 팀 팀장. 분석 범위·일정 우선순위를 조정해 투자 제언으로 정리. 정제는 팀원 수행. 정책 채택 미확인</p></div><div class="rowright"><span class="status">팀 분석</span><br><a class="" href="briefs/ontong.html">기획 요약 읽기 →</a></div></li><li class="project-row"><span class="year">2024</span><div><h3>따릉이 수요 분석</h3><p>실시간 수요 분석을 위한 데이터 파이프라인과 대시보드 설계. 처리량·시간·정확도 수치는 보류</p></div><div class="rowright"><span class="status">설계·구현</span><br><a class="" href="briefs/bicycle.html">기획 요약 읽기 →</a></div></li><li class="project-row"><span class="year">2024</span><div><h3>K리그 경기 결과 예측 한이음</h3><p>예측 모델과 서비스 구성 경험. 경기 수·정확도 충돌값은 제외</p></div><div class="rowright"><span class="status">팀 프로젝트</span><br><a class="" href="briefs/kleague24.html">기획 요약 읽기 →</a></div></li><li class="project-row"><span class="year">2025.12</span><div><h3>K리그 서울시립대 AI 서비스 기획</h3><p>선수 부하·부상 위험·교체 판단 지원 기획. 2024 승률예측과 별도 경험. 효과 수치는 목표</p></div><div class="rowright"><span class="status">별도 프로젝트</span><br><a class="" href="briefs/kleague25.html">기획 요약 읽기 →</a></div></li><li class="project-row"><span class="year">2024</span><div><h3>LG Aimers 4기 MQL</h3><p>B2B 영업기회 예측과 리드 우선순위화. 평가값은 원본 확인 전 제외</p></div><div class="rowright"><span class="status">분석 프로젝트</span><br><a class="" href="briefs/mql.html">기획 요약 읽기 →</a></div></li><li class="project-row"><span class="year">2024</span><div><h3>투자 교육 훈련 플랫폼</h3><p>초보 투자자의 이해도·리스크 성향을 고려한 교육과 모의투자 흐름</p></div><div class="rowright"><span class="status">서비스 기획</span><br><a class="" href="briefs/investment.html">기획 요약 읽기 →</a></div></li><li class="project-row"><span class="year">2025</span><div><h3>수강신청 시스템 개편</h3><p>수강 계획 로드맵과 마일리지 우선권을 요구사항·DFD·ERD·HTML 프로토타입으로 구체화</p></div><div class="rowright"><span class="status">설계 프로젝트</span><br><a class="" href="briefs/registration.html">기획 요약 읽기 →</a></div></li><li class="project-row"><span class="year">2026</span><div><h3>금융문맹 탈출기 RPG</h3><p>금융 AI 리터러시 카드뉴스. KBI 인기상은 기존 이력서 기재</p></div><div class="rowright"><span class="status">콘텐츠 제작</span><br><a class="" href="briefs/kbi.html">기획 요약 읽기 →</a></div></li><li class="project-row"><span class="year">2024</span><div><h3>주요 5품목 무역량 예측</h3><p>국민대 데이터 분석 프로젝트. 모델 평가와 본인 역할 원본 보완</p></div><div class="rowright"><span class="status">분석 프로젝트</span><br><a class="" href="briefs/trade24.html">기획 요약 읽기 →</a></div></li><li class="project-row"><span class="year">2025</span><div><h3>무역 공행성·후행 품목 예측</h3><p>2024 무역량 예측과 별도 경험. 원본 산출물·평가 기준 보완</p></div><div class="rowright"><span class="status">분석 프로젝트</span><br><a class="" href="briefs/trade25.html">기획 요약 읽기 →</a></div></li><li class="project-row"><span class="year">2026.04</span><div><h3>CampusGuard KIT 바이브코딩</h3><p>부트캠프 출결과 상담·행정 문서 작성 흐름을 묶은 프로토타입. Kiro 생성 코드와 본인·AI 기여 구분 필요</p></div><div class="rowright"><span class="status">프로토타입</span><br><a class="" href="briefs/campusguard.html">기획 요약 읽기 →</a></div></li><li class="project-row"><span class="year">2026.05</span><div><h3>국민대 특화 행정 서비스 AI</h3><p>공식 학사 자료 근거 확인에서 문의문·체크리스트 작성까지 연결하는 프로토타입. 운영 효과 미검증</p></div><div class="rowright"><span class="status">구현·설계</span><br><a class="" href="briefs/kmu.html">기획 요약 읽기 →</a></div></li><li class="project-row"><span class="year">2026</span><div><h3>복구잇다</h3><p>침수 피해 사업장 복구 요청의 접수·배정·완료 흐름. 현장 협력·실증 미확정</p></div><div class="rowright"><span class="status">기획 초안</span><br><a class="" href="briefs/recovery.html">기획 요약 읽기 →</a></div></li><li class="project-row"><span class="year">2026</span><div><h3>내 단골 주문 확인 AI</h3><p>키오스크 주문 확인의 접근성·안전 범위와 PRD 작성. 실제 운영 효과 미검증</p></div><div class="rowright"><span class="status">기획 초안</span><br><a class="" href="briefs/kiosk.html">기획 요약 읽기 →</a></div></li><li class="project-row"><span class="year">2026</span><div><h3>행사 다음 약속 고용24</h3><p>채용행사 이후 후속 약속을 이어 주는 흐름. 현장 도입·실증 전</p></div><div class="rowright"><span class="status">PRD·화면 설계</span><br><a class="" href="briefs/employment.html">기획 요약 읽기 →</a></div></li><li class="project-row"><span class="year">2026</span><div><h3>하나 Junior Green</h3><p>용돈 기록과 ESG 학습·가상투자 연결. 은행 연계와 운영 실적은 미확인</p></div><div class="rowright"><span class="status">기획·목업</span><br><a class="" href="briefs/junior.html">기획 요약 읽기 →</a></div></li><li class="project-row"><span class="year">2026</span><div><h3>Startup AI Navi</h3><p>창업 지원 탐색 서비스 후보. 최종 제출 상태와 역할 보완</p></div><div class="rowright"><span class="status">기획·프로토타입</span><br><a class="" href="briefs/startup.html">기획 요약 읽기 →</a></div></li><li class="project-row"><span class="year">2026</span><div><h3>모두의 AI 실험실 제안</h3><p>놀이터·조례 피드백·공공사업 추적 후보를 검토. 실제 운영 성과 아님</p></div><div class="rowright"><span class="status">제안 초안</span><br><a class="" href="briefs/publiclabs.html">기획 요약 읽기 →</a></div></li><li class="project-row"><span class="year">2026.10</span><div><h3>KRAFTON AI 해커톤</h3><p>자율운항·시뮬레이터·합성 데이터·월드 모델 과제의 평가 조건과 실험 계획 검토. 구현·제출 전</p></div><div class="rowright"><span class="status">준비 중</span><br><a class="" href="briefs/krafton.html">기획 요약 읽기 →</a></div></li></ul></details><p class="list-note">‘근거 보완’·‘보류’ 항목은 검토 목록입니다. 원본과 역할을 확인한 뒤 제출용 경험으로 확정합니다.</p></section><section id="background" class="section" aria-labelledby="background-title"><p class="eyebrow">BACKGROUND</p><h2 id="background-title">경험과 기반</h2><div class="history"><div><h3>경력</h3><div class="xp"><b>셀렉트스타 · Data Assistant</b><span>2025.09–12 · 프로젝트3팀</span><p>AI 학습 데이터 수집·가공 진행 지원. 품질 개선 수치는 원본 검수 기준 확인 후 추가합니다.</p></div><div class="xp"><b>한국금융연수원 · 출판미디어사업부</b><span>2024.01–12 · 사무보조</span><p>도서 판매 관리와 사무 지원. 판매·송장 데이터를 함께 살펴 개선 아이디어를 제안했습니다.</p></div><p class="small" style="margin-top:16px">메트릭스튜디오 경력은 증명서의 직함·기간과 업무 산출물 대조 후 보완합니다.</p></div><div><h3>학력과 역량</h3><p>국민대학교 · AI빅데이터융합경영학<br>경영정보학 복수전공 · 2019.03–2026.08</p><ul><li>기획: 문제 정의, PRD, 사용자 여정, 화면·정책 설계</li><li>실행: 일정·업무 배분, 멘토 소통, 데이터/API 요구사항</li><li>검증: 원문 대조, 데이터의 결측·최신성, AI 판단의 한계</li><li>도구: Python, SQL, Figma, Word·Excel·PowerPoint</li></ul><p class="small">캡스톤 대상 · 연구랩업 대상 · 갭이어 우수 참여자 · KBI 인기상은 기존 이력서 기재 기준입니다.</p></div></div></section><section id="contact" class="section" aria-labelledby="contact-title"><div class="contact"><p class="eyebrow">LET’S TALK</p><h2 id="contact-title">어떤 문제를 함께 풀고 싶으신가요?</h2><p>문제 정의부터 팀 실행과 검증까지 연결하는 서비스 기획자로 일하고 싶습니다.</p><div class="actions"><a class="button primary" href="mailto:mdh0204@naver.com">이메일로 연락하기</a><span class="pending" aria-disabled="true">자료 링크 준비 중</span><a class="button" href="resume.pdf">이력서 PDF ↗</a><button class="button" type="button" id="print">포트폴리오 인쇄</button></div><p class="print-only">mdh0204@naver.com · 포트폴리오 자료 링크 준비 중</p></div></section></main><script>const opened=[];addEventListener('beforeprint',()=>{document.querySelectorAll('details').forEach(d=>{opened.push([d,d.open]);d.open=true})});addEventListener('afterprint',()=>{opened.splice(0).forEach(([d,s])=>d.open=s)});document.getElementById('print').addEventListener('click',()=>print());if(location.hash==='#more-projects')document.getElementById('more-projects').open=true;document.querySelector('.skip').addEventListener('click',()=>document.getElementById('main').focus());</script><footer class="wrap footer">문대한 · 서비스 기획 / PM · 내용 확인일 2026-10-08</footer></body></html>

diff --git a/style.css b/style.css
@@ -1,2 +1,6 @@
 @font-face{font-family:Pretendard;src:url('assets/PretendardVariable.woff2') format('woff2');font-weight:100 900;font-display:swap}*{box-sizing:border-box}html{scroll-behavior:smooth;scroll-padding-top:90px}body{margin:0;background:#fff;color:#14202c;font-family:Pretendard,-apple-system,BlinkMacSystemFont,sans-serif;line-height:1.6;-webkit-font-smoothing:antialiased}a{color:inherit;text-decoration-thickness:1px;text-underline-offset:5px}a:hover{color:#194acb}button,summary,a{touch-action:manipulation}a:focus-visible,button:focus-visible,summary:focus-visible{outline:3px solid #194acb;outline-offset:5px}img{max-width:100%;height:auto}p{margin:0 0 14px}h1,h2,h3{line-height:1.22;letter-spacing:-.045em;text-wrap:balance}h1{font-size:clamp(36px,4.3vw,60px);font-weight:760;max-width:850px;margin:20px 0 24px}h2{font-size:clamp(28px,3vw,42px);margin:0 0 18px}h3{font-size:25px;margin:0 0 14px}.wrap{max-width:1216px;margin:auto;padding:0 40px}.skip{position:fixed;left:20px;top:-100px;z-index:10;background:#fff;padding:14px}.skip:focus{top:8px}.bar{border-bottom:1px solid #d7dfe8;background:#fff;position:sticky;top:0;z-index:3}.nav{display:flex;align-items:center;justify-content:space-between;gap:20px;min-height:76px}.brand{font-size:20px;font-weight:750;text-decoration:none}.brand span{color:#526375;font-size:12px;font-weight:500;margin-left:12px;letter-spacing:.04em}.navlinks{display:flex;gap:26px;font-size:14px;align-items:center}.navlinks a{text-decoration:none;padding:10px 0}.small{font-size:13px;color:#526375}.eyebrow{font-size:12px;font-weight:750;letter-spacing:.1em;color:#194acb}.hero{padding:38px 0 32px;display:grid;grid-template-columns:1fr 305px;gap:52px;align-items:center}.hero .intro{font-size:18px;color:#40536a;max-width:610px}.actions{display:flex;gap:12px;flex-wrap:wrap;margin-top:28px}.button{display:inline-flex;min-height:46px;align-items:center;justify-content:center;padding:11px 20px;border:1px solid #a7b5c7;border-radius:5px;text-decoration:none;font-weight:650;font-size:14px;background:#fff;cursor:pointer}.button.primary{background:#194acb;color:#fff;border-color:#194acb}.button.primary:hover{background:#103999}.hero-proof{padding:22px 0 22px 25px;border-left:3px solid #194acb}.hero-proof .proof-label{font-size:12px;color:#526375;margin-bottom:17px}.hero-proof a{display:flex;justify-content:space-between;gap:10px;text-decoration:none;border-bottom:1px solid #d7dfe8;padding:13px 0}.hero-proof b{font-size:16px}.hero-proof span{font-size:12px;color:#526375}.hero-proof .small{margin-top:17px}.section{padding:52px 0;border-top:1px solid #d7dfe8;scroll-margin-top:88px}.sectionhead{display:flex;align-items:baseline;justify-content:space-between;gap:28px;margin-bottom:25px}.sectionhead h2{font-size:32px;margin-bottom:0}.sectionhead .eyebrow{margin-bottom:6px}#selected{padding-top:24px}.sectionhead p{max-width:480px;color:#526375;font-size:15px}.cases{display:grid;grid-template-columns:1fr 1fr;gap:24px}.case{border:1px solid #cdd7e3;border-radius:8px;padding:28px;display:flex;flex-direction:column;min-width:0;background:#fff;scroll-margin-top:100px}.case .topline{display:flex;justify-content:space-between;gap:10px;font-size:12px;color:#526375;margin-bottom:14px}.case .tag{color:#194acb;font-weight:650;margin-bottom:9px;font-size:13px}.case .role{font-size:13px;color:#40536a;min-height:21px;margin-bottom:20px}.case dl{margin:0;display:grid;grid-template-columns:34px 1fr;gap:12px 14px;font-size:14px}.case dt{font-weight:700;color:#194acb}.case dd{margin:0;color:#33485e;line-height:1.65}.number{margin:23px 0 15px;display:flex;align-items:baseline;gap:13px;border-top:1px solid #d7dfe8;padding-top:18px}.number b{font-size:30px;line-height:1.1;letter-spacing:-.035em;font-variant-numeric:tabular-nums;white-space:nowrap}.number span{font-size:12px;color:#526375}.case .links{display:flex;gap:16px;flex-wrap:wrap;font-size:13px;margin-top:auto;padding-top:8px}.case .limit{font-size:12px;color:#526375;border-left:2px solid #cdd7e3;padding-left:11px;margin-bottom:15px}.flow-label{font-size:11px;color:#526375;margin:18px 0 -15px}.flow{list-style:none;padding:0;margin:24px 0 0;display:flex;gap:8px}.flow li{flex:1;text-align:center;background:#edf2fc;padding:12px 5px;font-size:12px;font-weight:650;border-radius:4px;position:relative}.flow li:not(:last-child):after{content:'›';position:absolute;right:-8px;top:11px;z-index:1;color:#194acb}.artifact{background:#f4f7fc;margin-top:24px;border:1px solid #d7dfe8;border-radius:8px;padding:28px;display:grid;grid-template-columns:275px 1fr;gap:28px;align-items:center}.artifact h3{font-size:22px}.artifact p{font-size:14px;color:#526375}.artifact img{display:block;border:1px solid #cdd7e3;background:white}.project-list{margin:0;padding:0;list-style:none}.project-row{display:grid;grid-template-columns:110px 1fr 140px;gap:24px;padding:18px 0;border-bottom:1px solid #d7dfe8;align-items:start}.project-row .year{font-size:13px;color:#526375;font-variant-numeric:tabular-nums}.project-row h3{font-size:18px;margin:0 0 6px;letter-spacing:-.02em}.project-row p{font-size:14px;color:#526375;margin:0}.status{font-size:12px;color:#526375;border:1px solid #cdd7e3;border-radius:4px;display:inline-block;padding:4px 8px;margin-bottom:7px}.project-row .rowright{font-size:12px;text-align:right}.list-note{padding:16px 0;font-size:13px;color:#526375}details summary{cursor:pointer;font-weight:650;padding:14px 0;min-height:48px}details[open] summary{color:#194acb}.history{display:grid;grid-template-columns:1fr 1fr;gap:56px}.history h3{font-size:20px}.history ul{padding-left:20px;font-size:14px;color:#33485e}.history li{margin:7px 0}.xp{padding:16px 0;border-bottom:1px solid #d7dfe8}.xp b{display:block;font-size:17px}.xp span{font-size:13px;color:#526375}.xp p{font-size:14px;color:#33485e;margin-top:8px}.contact{background:#edf2fc;padding:42px;border-radius:8px}.contact h2{font-size:30px}.footer{padding:30px 0;color:#526375;font-size:12px}.notice{background:#edf2fc;color:#40536a;font-size:12px;padding:7px 20px;text-align:center}.brief{max-width:880px}.brief .lede{font-size:19px;color:#40536a}.brief section{margin:35px 0}.brief h2{font-size:25px}.brief .source-note{border-top:1px solid #d7dfe8;padding-top:20px;font-size:13px;color:#526375}.brief .flow{margin:25px 0}.back{display:inline-block;padding:14px 0;margin-top:20px;font-size:14px}.print-only{display:none}.pending{display:inline-block;color:#66768a;font-size:12px;border:1px dashed #a7b5c7;border-radius:4px;padding:8px 12px;line-height:1.4}.links .pending{padding:3px 7px}.previewbody{margin:30px 0}.previewbody img{width:100%}@media(max-width:900px){.hero{grid-template-columns:1fr;gap:30px;padding-top:40px}.hero-proof{display:none}.hero h1{max-width:760px}.artifact{grid-template-columns:1fr}.sectionhead{display:block}.sectionhead p{max-width:650px}.history{gap:30px}}@media(max-width:640px){.wrap{padding:0 20px}.nav{min-height:67px;gap:15px}.brand span{display:none}.navlinks{gap:16px;font-size:12px}.navlinks .historynav{display:none}.hero{padding:36px 0 34px}.hero .intro{font-size:16px}.hero h1{font-size:38px;line-height:1.24;margin:16px 0 20px;letter-spacing:-.055em}.hero .actions{margin-top:22px;gap:8px}.hero .actions a:last-child{border:0;padding:5px 0;min-height:24px;text-decoration:underline;width:100%;justify-content:flex-start}.button{padding:11px 14px;font-size:13px}.section{padding:34px 0}.cases{grid-template-columns:1fr;gap:16px}.case{padding:22px}.case h3{font-size:23px}.case dl{font-size:14px;grid-template-columns:30px 1fr;gap:10px}.number b{font-size:26px}.number{gap:10px}.history{grid-template-columns:1fr;gap:30px}.project-row{grid-template-columns:65px 1fr;gap:12px;padding:16px 0}.project-row .rowright{grid-column:2;text-align:left;display:flex;gap:16px;align-items:center}.project-row h3{font-size:17px}.project-row p{font-size:13px}.project-row .year{font-size:12px}.status{margin:0}.artifact{padding:20px;gap:15px}.contact{padding:26px}.notice{font-size:11px}.flow li{font-size:11px;padding:12px 3px}.navlinks a{min-height:44px;display:flex;align-items:center}}@media(prefers-reduced-motion:reduce){html{scroll-behavior:auto}}@media print{@page{size:A4;margin:16mm}body{font-size:10pt;color:#000}.bar,.notice,.actions,.footer,.skip,.hero-proof,button,.artifact{display:none!important}.wrap{padding:0;max-width:none}.hero{display:block;padding:0 0 20px}h1,.hero h1{font-size:26pt;max-width:none}.hero .intro{font-size:11pt}.section{padding:14px 0;break-before:auto}#selected{padding-top:12px}#all,#background{break-before:page}.hero .eyebrow:before{content:'문대한 · mdh0204@naver.com · '}#contact{display:none}.hero .eyebrow{font-size:8pt}.hero h1{line-height:1.15;margin:12px 0 15px}.hero h1 br{display:none}.sectionhead{margin-bottom:15px}.sectionhead p{font-size:9pt}.sectionhead h2{font-size:17pt}.case p{margin-bottom:7px}.case .topline{margin-bottom:7px}.case .tag{margin-bottom:4px}.case h3{margin-bottom:8px}.case .role{min-height:0;margin-bottom:10px}.case dl{gap:6px 10px}.number{margin:12px 0 7px;padding-top:10px}.case .limit{margin-bottom:7px}.case .links{padding-top:0}.section h2{font-size:20pt}.cases{display:block}.case{display:block;break-inside:avoid;margin-bottom:14px;padding:16px;box-shadow:none}.case h3{font-size:15pt}.case dl{font-size:9pt}.case .topline,.case .role,.case .limit,.number span{font-size:8pt}.number b{font-size:18pt}.flow,.flow-label{display:none}.case .links{font-size:8pt}.case .links a,.project-row .rowright a{display:none}.project-row{break-inside:avoid;grid-template-columns:65px 1fr 100px;padding:9px 0;gap:15px}.project-row h3{font-size:11pt}.project-row p{font-size:9pt}.project-row .year,.rowright{font-size:8pt}.history{display:block}.history>div{break-inside:avoid}.contact{padding:0;background:none}.print-only{display:block;font-size:9pt}.brief section{break-inside:avoid;margin:22px 0}.brief h1{font-size:25pt}.brief h2{font-size:15pt}details>summary{display:none}details>.project-list{display:block!important}.brief a[href^='https:']:after{content:' (' attr(href) ')';font-size:8pt;overflow-wrap:anywhere}}
+.hero{grid-template-areas:"main portrait" "main proof";gap:14px 52px;align-items:start}.hero-main{grid-area:main}.hero-proof{grid-area:proof;padding:0 0 0 20px}.hero-proof .proof-label{margin-bottom:5px}.hero-proof a{padding:6px 0}.hero-proof .small{margin-top:10px}.portrait{grid-area:portrait;margin:0 auto 10px;max-width:145px}.portrait img{display:block;width:145px;height:auto;border-radius:5px;background:#edf2fc}.portrait figcaption{margin-top:10px;display:flex;justify-content:space-between;align-items:baseline;gap:10px}.portrait b{font-size:16px}.portrait span{font-size:11px;color:#526375}.portfolio-download{margin-top:15px;font-size:13px}
+@media(max-width:900px){.hero{grid-template-columns:1fr;grid-template-areas:"main" "portrait";gap:20px}.hero-proof{display:none}.portrait{max-width:none;margin:0;display:flex;align-items:center;gap:18px}.portrait img{width:84px}.portrait figcaption{display:block;margin:0}.portrait b,.portrait span{display:block}.portrait b{font-size:18px}.portrait span{font-size:13px;margin-top:4px}}
+@media print{.portrait{display:none}.hero{display:block}}
+
 .portfolio-download{margin-top:15px;font-size:13px}@media print{.portfolio-download{display:none}.hero{padding-bottom:8px}}
